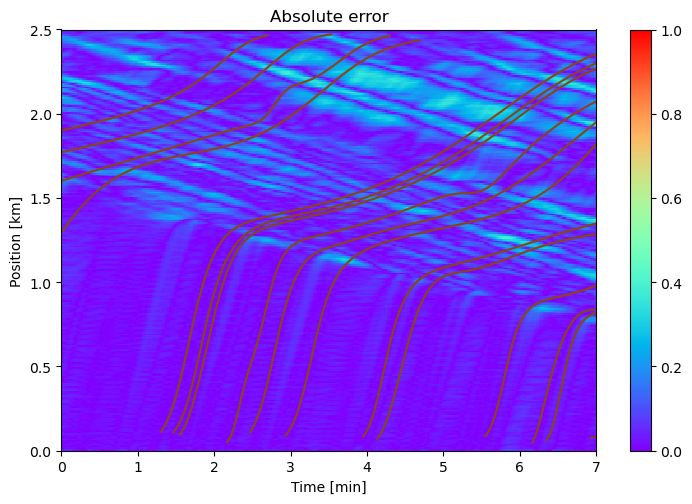
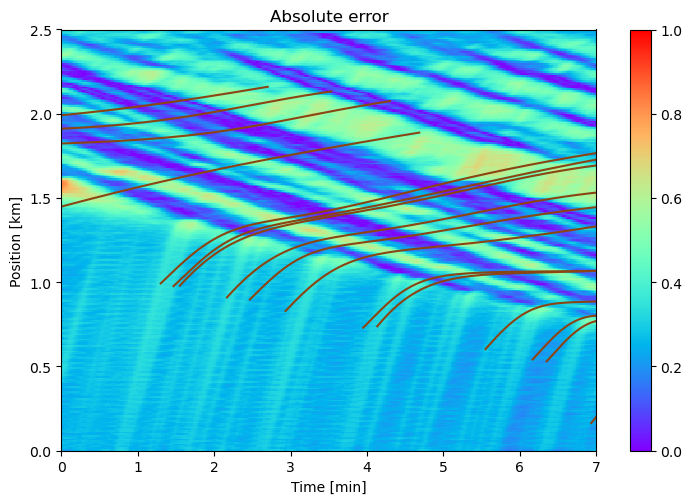
add

diff --git a/neural_network_pytorch.py b/neural_network_pytorch.py
@@ -320,9 +320,9 @@ class NeuralNetwork(nn.Module):
     def calculate_data_losses(self):
 
         # Predictions
-        u_pred = [self.net_u(self.t[i], self.x[i]) - self.noise_rho_bar[i]*0 for i in range(len(self.t))] # list of tensors, since each tensor has a different shape
+        u_pred = [self.net_u(self.t[i], self.x[i]) - self.noise_rho_bar[i] for i in range(len(self.t))] # list of tensors, since each tensor has a different shape
         x_pred = [self.net_x_pv(self.t[i], i) for i in range(len(self.t))]  
-        u_pred_pv_position = [self.net_u(self.t[i], x_pred[i]) - self.noise_rho_bar[i]*0 for i in range(len(self.t))]
+        u_pred_pv_position = [self.net_u(self.t[i], x_pred[i]) - self.noise_rho_bar[i] for i in range(len(self.t))]
         v_pred = [self.net_v(self.u[i]) for i in range(len(self.t))]
 
         # L_2
@@ -347,7 +347,7 @@ class NeuralNetwork(nn.Module):
 
         return {
             "MSEu1": MSEu1,
-            # "MSEu2": MSEu2,
+            "MSEu2": MSEu2,
             "MSEtrajectories": MSEtrajectories,
             "MSEv1": MSEv1,
             "MSEv2": MSEv2
@@ -363,10 +363,10 @@ class NeuralNetwork(nn.Module):
         MSEgamma = self.gamma_var**2
 
         return {
-            # "MSEf": MSEf/100,
-            # "MSEg": MSEg/100,
+            "MSEf": MSEf,
+            "MSEg": MSEg,
             "MSEv": MSEv,
-            # "MSEgamma": MSEgamma
+            "MSEgamma": MSEgamma
         }
 
         
@@ -399,8 +399,8 @@ class NeuralNetwork(nn.Module):
             {'params': self.density_network.parameters()},
             {'params': self.velocity_network.parameters()},
             {'params': [p for traj_net in self.trajectories_networks for p in traj_net.parameters()]}, # added this way such that it is optimized as well
-            # {'params': self.noise_rho_bar},  # Assuming noise_rho_bar is a list of parameters/tensors
-            # {'params': [self.gamma_var]},
+            {'params': self.noise_rho_bar},  # Assuming noise_rho_bar is a list of parameters/tensors
+            {'params': [self.gamma_var]},
             # {'params': self.lambdas.values()}
         ], lr=0.005)
 
@@ -409,7 +409,7 @@ class NeuralNetwork(nn.Module):
         # optimizer = optim.LBFGS(self.parameters(), lr=0.005)
        
         # Train the model
-        self.N_epochs = 5000
+        self.N_epochs = 1000
         # self.plot_density_loss_on_trajectory()
         with tqdm(total=self.N_epochs, desc="Training Progress") as pbar:
             for epoch in range(self.N_epochs):
@@ -432,15 +432,26 @@ class NeuralNetwork(nn.Module):
                     loss = closure()
                 
                 else:
-                
+
                     optimizer.zero_grad()
                     losses_data = self.calculate_data_losses()
                     losses_physics = self.calculate_physics_losses()
                     losses = {**losses_data, **losses_physics}
+                    
+                    if epoch > self.N_epochs - 3000:
+                        loss = sum(losses.values())
+                        
+                    else:
+                        loss = sum(losses_data.values())
+
+                    loss = sum(losses.values())
+
+                    # loss = sum(losses_data.values())
+                    
                     # weighted_loss = {key: losses[key] * torch.sigmoid(self.lambdas[key]) for key in losses}
 
                     # loss = sum(losses_data.values()) + sum(losses_physics.values())
-                    loss = sum(losses.values())
+                    # loss = sum(losses.values())
                     # if epoch < 4000:
                     #     loss = sum(losses_data.values())
                     # else:
@@ -465,7 +476,7 @@ class NeuralNetwork(nn.Module):
                     loss_history[key].append(value.item())
                 
 
-                gamma_var_history.append(self.gamma_var.item())
+                gamma_var_history.append(self.gamma_var.item()**2)
                 noise_rho_bar_history.append([tensor.item() for tensor in self.noise_rho_bar])
 
                 for key, value in self.lambdas.items():

diff --git a/main_godunov.py b/main_godunov.py
@@ -8,10 +8,69 @@ Created on Mon Sep 14 15:17:25 2020
 import numpy as np
 np.random.seed(12345)
 import godunov as g
-import reconstruction_neural_network as rn
+# import reconstruction_neural_network as rn
+import reconstruction_neural_network_pytorch as rn
 from pyDOE import lhs
 import matplotlib.pyplot as plt
 import time
+
+def plot_losses(loss_history):
+    num_losses = len(loss_history)
+    cols = 2  # You can adjust the number of columns based on your preference
+    rows = num_losses // cols + (num_losses % cols > 0)
+
+    fig, axes = plt.subplots(rows, cols, figsize=(15, rows * 3))
+    fig.suptitle('Loss History by Component')
+
+    # Flatten the axes array for easy indexing
+    axes_flat = axes.flatten()
+
+    for i, (key, values) in enumerate(loss_history.items()):
+        ax = axes_flat[i]
+        ax.plot(values, label=key)
+        ax.set_title(key)
+        ax.set_xlabel('Epoch')
+        ax.set_ylabel('Loss')
+        ax.legend()
+        ax.grid(True)
+
+    # Hide any unused subplots
+    for ax in axes_flat[i+1:]:
+        ax.set_visible(False)
+
+    plt.tight_layout(rect=[0, 0.03, 1, 0.95])  # Adjust the layout to make room for the suptitle
+    plt.show()
+
+
+def plot_parameters(gamma_var_history, noise_rho_bar_history, lambdas_history):
+    fig, ax = plt.subplots(3, 1, figsize=(15, 10))
+    fig.suptitle('Parameter History')
+
+    ax[0].plot(gamma_var_history)
+    ax[0].set_title('Gamma Variance')
+    ax[0].set_xlabel('Epoch')
+    ax[0].set_ylabel('Variance')
+    ax[0].grid(True)
+
+    ax[1].plot(noise_rho_bar_history)
+    ax[1].set_title('Noise Rho Bar')
+    ax[1].set_xlabel('Epoch')
+    ax[1].set_ylabel('Value')
+    ax[1].grid(True)
+
+    for key, values in lambdas_history.items():
+        ax[2].plot(values, label=key)
+    # ax[2].plot(lambdas_history)
+    ax[2].set_title('lambdas_history')
+    ax[2].set_xlabel('Epoch')
+    ax[2].set_ylabel('Value')
+    ax[2].grid(True)
+    ax[2].legend()
+
+    plt.tight_layout(rect=[0, 0.03, 1, 0.95])  # Adjust the layout to make room for the suptitle
+    plt.show()
+
+
 
 #####################################
 ####     General parameters     #####
@@ -35,8 +94,6 @@ xiPos = L*lhs(1, samples=Npv).reshape((Npv,))
 xiPos = np.flip(np.sort(xiPos))
 xiT = np.array([0]*Npv)
 
-t0 = time.time()
-print("start simulation at time: ", t0)
 
 # Godunov simulation of the PDE
 simu_godunov = g.SimuGodunov(Vf, gamma, xiPos, xiT, L=L, Tmax=Tmax,
@@ -50,20 +107,24 @@ axisPlot = simu_godunov.getAxisPlot()
 # collect data from PV
 t_train, x_train, rho_train, v_train = simu_godunov.getMeasurements(selectedPacket=-1, totalPacket=-1, noise=noise)
 
-t1 = time.time()
-print("end simulation at time: ", t1
-      , "duration: ", t1-t0, " seconds")
 
-breakpoint()
+
 
 trained_neural_network = rn.ReconstructionNeuralNetwork(t_train, x_train, rho_train, v_train,
                                                     L, Tmax, v_max=Vf, N_f=1000, N_g=50, N_v=30, opt=9)
-trained_neural_network.start() 
-trained_neural_network.train()
 
-[_, _, figError] = trained_neural_network.plot(axisPlot, rho)
+loss_history, gamma_var_history, noise_rho_bar_history, lambdas_history = trained_neural_network.train()
+
+
+plot_losses(loss_history)
+plot_parameters(gamma_var_history, noise_rho_bar_history, lambdas_history)
+
+# trained_neural_network.start() 
+# trained_neural_network.train()
+
+trained_neural_network.plot(axisPlot, rho)
 simu_godunov.pv.plot()
-figError.savefig('error_godunov.png', bbox_inches='tight')
+# figError.savefig('error_godunov.png', bbox_inches='tight')
 
-plt.show()
-trained_neural_network.close()
+# plt.show()
+# trained_neural_network.close()

diff --git a/sumo.py b/sumo.py
@@ -3,6 +3,12 @@ import numpy as np
 import matplotlib.pyplot as plt
 from matplotlib.animation import FuncAnimation
 import matplotlib.colors as colors
+from mpl_toolkits.mplot3d import Axes3D
+import plotly.graph_objects as go
+# import plotly.express as px
+from scipy.interpolate import griddata
+
+
 
 
 class Sumo():
@@ -315,3 +321,56 @@ class Sumo():
             ax[i].set_title(f'Time: {t}')
         plt.tight_layout()
         plt.show()
+
+
+    def plotDensity3D(self):
+        # breakpoint()
+        time = np.linspace(0, 420, 420)
+        space = np.linspace(0, 250, 250)
+
+        # Create a meshgrid for space and time
+        space_grid, time_grid = np.meshgrid(space, time)
+
+        # Create a figure and a 3D subplot
+        fig = plt.figure()
+        ax = fig.add_subplot(111, projection='3d')
+
+        # Plotting the surface plot
+        surf = ax.plot_surface(space_grid, time_grid, self.u.T, cmap='rainbow')
+
+        # Add a color bar which maps values to colors.
+        fig.colorbar(surf, shrink=0.5, aspect=5)
+
+        plt.title('Density Surface Plot')
+        ax.set_xlabel('Space')
+        ax.set_ylabel('Time')
+        ax.set_zlabel('Density')
+
+        # Show plot
+        plt.show()
+
+    def plotDensity3Dplotly(self):
+        # breakpoint()
+        time = np.linspace(0, 420, 420)
+        space = np.linspace(0, 250, 250)
+
+        # Create a meshgrid for space and time
+        space_grid, time_grid = np.meshgrid(space, time)
+
+        fig = go.Figure(data=[go.Surface(z=self.u, x=time_grid, y=space_grid, colorscale='Viridis')])
+
+        # Update plot layout
+        fig.update_layout(
+            title='Density Surface Plot',
+            scene=dict(
+                xaxis_title='Time',
+                yaxis_title='Space',
+                zaxis_title='Density'
+            ),
+            autosize=False,
+            width=800,
+            height=600
+        )
+
+        # Show plot
+        fig.show()

diff --git a/sumo_data_visualization.py b/sumo_data_visualization.py
@@ -36,7 +36,6 @@ t_f_train = X_f_train[:, 1:2] # time data points for the PDE [500, 1]
 # plt.ylim([-1, 1])
 # plt.grid()
 
-breakpoint()
 # plt.figure()
 # plt.plot(u_v_train, np.zeros_like(u_v_train), 'rx')
 # plt.ylabel('Velocity')
@@ -60,12 +59,14 @@ breakpoint()
 
 
 # sumo.plotProbeVehicles()
-sumo.plotProbeFD()
-plt.show()
+# sumo.plotProbeFD()
+# plt.show()
 
 # sumo.plotDensityMovieHeatmap()
 # sumo.plotProbes()
 # sumo.plotDensityMovie()
 # sumo.plotDensityMovie()
 # sumo.plotCombinedDensityMovie()
-sumo.plotDensityAtTimePoints()
+# sumo.plotDensityAtTimePoints()
+
+sumo.plotDensity3Dplotly()
